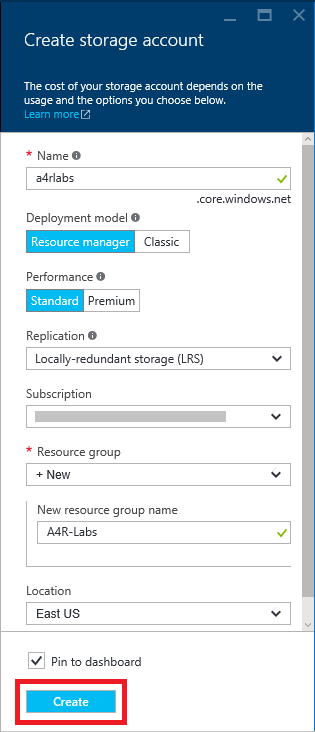
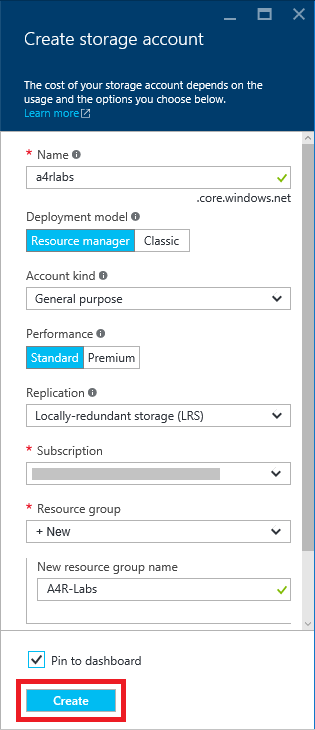
Updated to storage lab
Refreshed screen shot and accompanying text for creating a storage
account to account for new "Account kind" option.

diff --git a/Content/Storage/Azure Storage HOL.md b/Content/Storage/Azure Storage HOL.md
@@ -68,9 +68,11 @@ The [Azure Portal](https://portal.azure.com) allows you to perform basic storage
 
 	> The other deployment model, **Classic**, creates a "classic" storage account that doesn't fall under the purview of the [Azure Resource Manager](https://azure.microsoft.com/en-us/documentation/articles/resource-group-overview/). Specifying **Resource Manager** as the deployment model provides you with more flexibility later on by ensuring that the account is explicitly added to a resource group, and it makes the storage account a first-class citizen in the Azure environment. For more information, see [Understanding Resource Manager deployment and classic deployment](https://azure.microsoft.com/en-us/documentation/articles/resource-manager-deployment-model/).
 
-	Finish up by selecting the location nearest you in the **Location** box and checking **Pin to dashboard** so a tile will be created for the storage account on your dashboard. Then click the **Create** button at the bottom of the blade to create the new storage account.
+	Make sure **General purpose** is selected in the **Account Kind** box. Then select **Locally-redundant storage (LRS)** under **Replication**.
 
-	> You accepted the default replication type, which is Locally Redundant Storage, or LRS. Other replication types offer greater durability but are also more expensive. For example, Globally Redundant Storage (GRS) ensures that data stored under this account will be replicated in a secondary location that is in a different region than the primary location.  Regardless of which account type you choose, realize that Azure *always* creates at least three high-reliability backups of your data. Even if you choose LRS, it is highly unlikely that you will ever lose your data.
+	> Locally redundant storage is the most cost-effective storage option. It prevents data stored under this storage account from being replicated in other data centers, but it ensures that the data will be replicated at least three times within the chosen data center. A *general-purpose* storage account can contain tables and queues as well as blobs, while the other type of storage account — *blob storage* — hosts blobs only. The latter could be used for this lab, and it offers support for a new feature of Azure called [cool storage](https://azure.microsoft.com/en-us/blog/introducing-azure-cool-storage/). But since not all Azure data centers support blob-only storage accounts right now, selecting it would limit the places your storage account can be located.
+
+	Finish up by selecting the location nearest you in the **Location** box and checking **Pin to dashboard** so a tile will be created for the storage account on your dashboard. Then click the **Create** button at the bottom of the blade to create the new storage account.
     
 	![Specifying parameters for a new storage account](images/create-storage-account.png)
 
